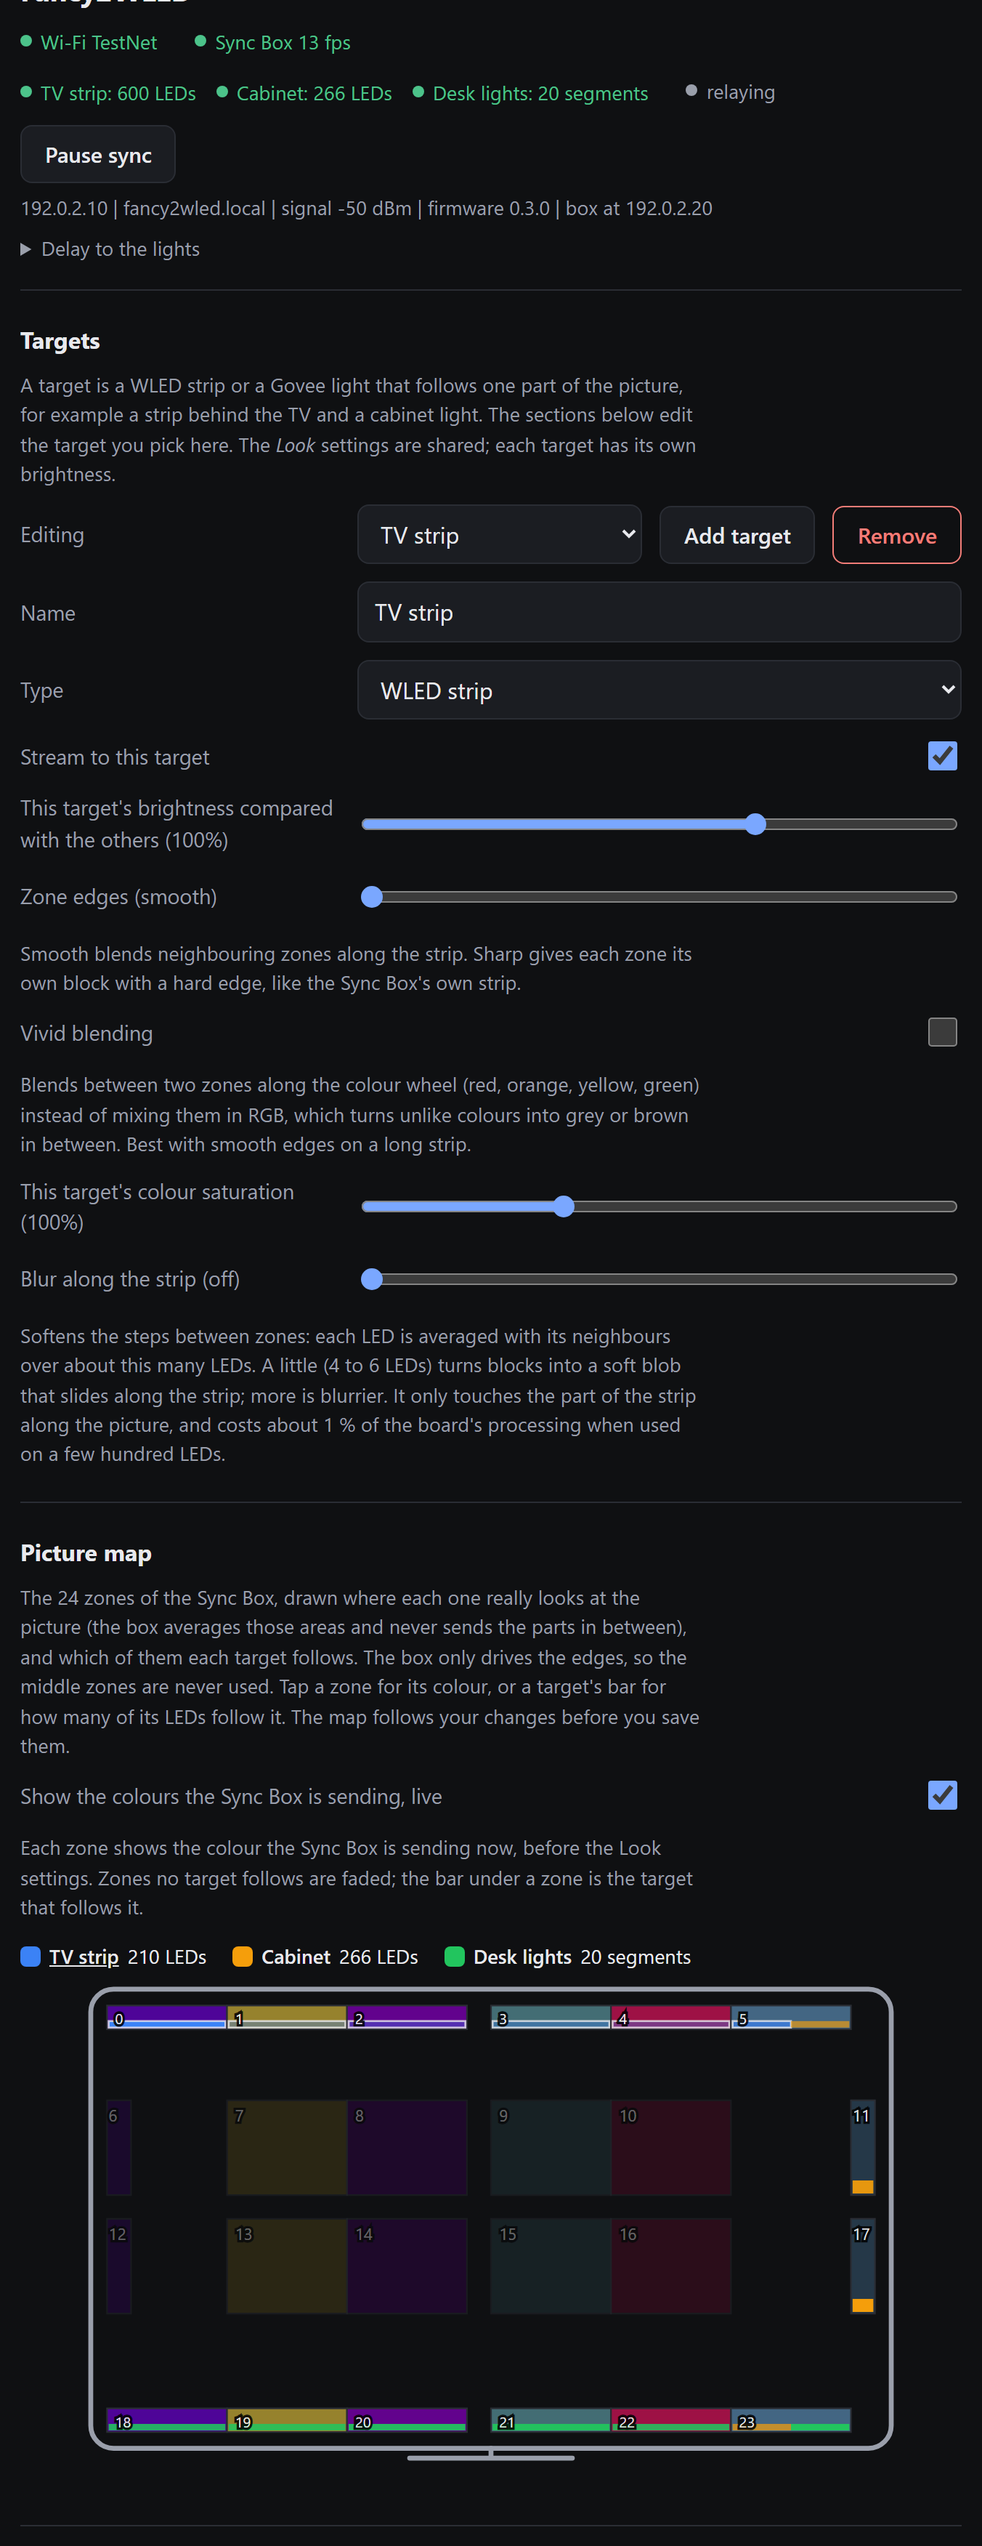
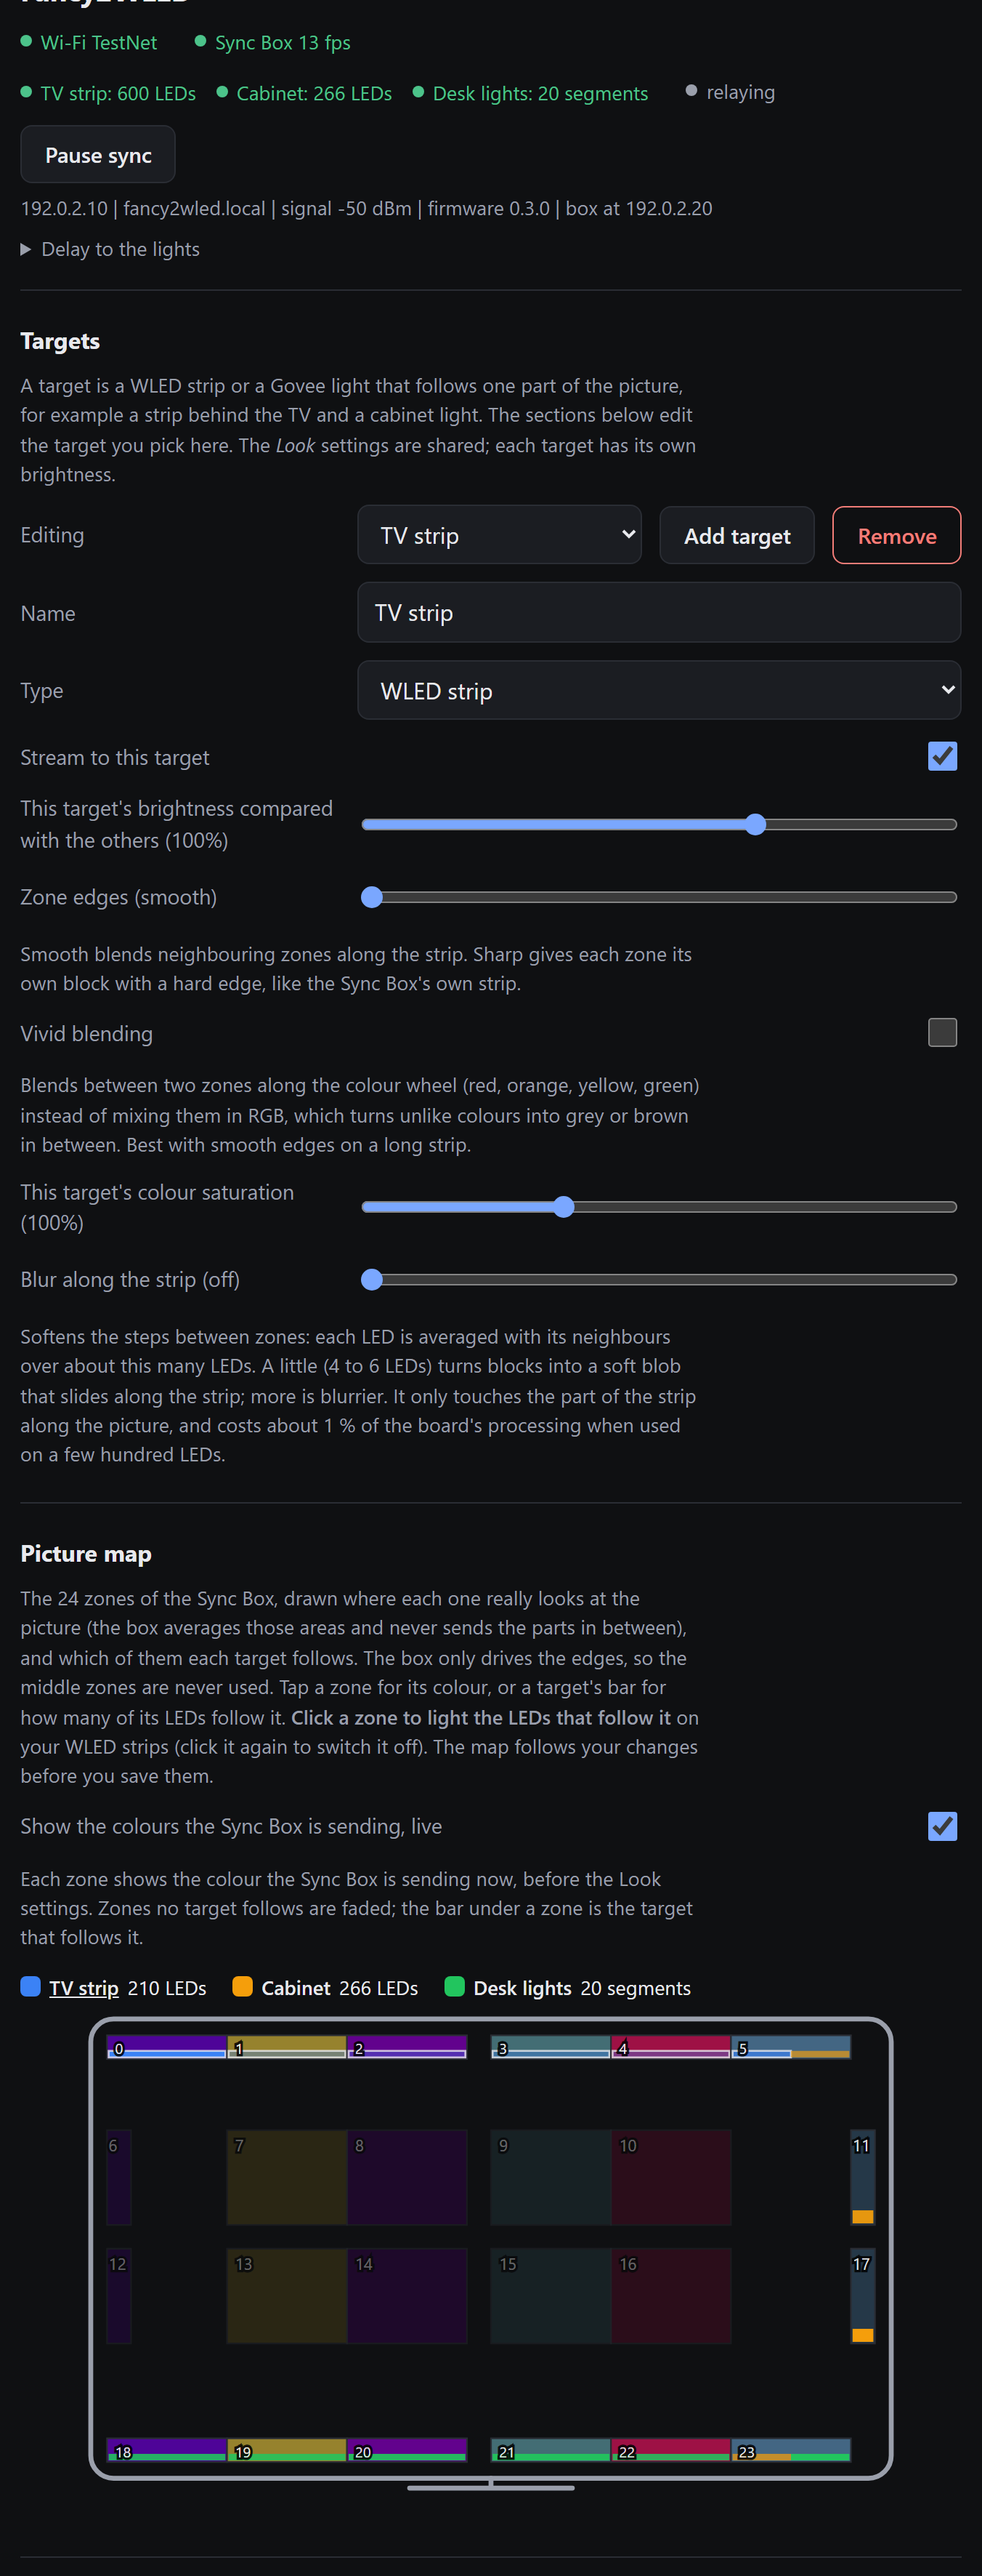
Picture map: click a zone to light the LEDs that follow it
Clicking a zone on the setup page's picture map asks the board (POST
/api/zonemark) to light, in white for 8 seconds, the LEDs that follow that zone
on every enabled WLED (the rest of those runs dark, like the other markers);
clicking it again switches it off. An LED follows the zone it takes most of its
colour from (zoneRuns in core.cpp, tested on a PC), so the counts match the
map's. A note under the map says where the zone is lit and the zone is outlined.
Govee lights are left alone.

diff --git a/web/index.html b/web/index.html
@@ -63,9 +63,10 @@ input[type=range].wide{width:100%}
 
 <div class="card" id="mapCard">
   <h2>Picture map</h2>
-  <p class="small mut">The 24 zones of the Sync Box, drawn where each one really looks at the picture (the box averages those areas and never sends the parts in between), and which of them each target follows. The box only drives the edges, so the middle zones are never used. Tap a zone for its colour, or a target's bar for how many of its LEDs follow it. The map follows your changes before you save them.</p>
+  <p class="small mut">The 24 zones of the Sync Box, drawn where each one really looks at the picture (the box averages those areas and never sends the parts in between), and which of them each target follows. The box only drives the edges, so the middle zones are never used. Tap a zone for its colour, or a target's bar for how many of its LEDs follow it. <b>Click a zone to light the LEDs that follow it</b> on your WLED strips (click it again to switch it off). The map follows your changes before you save them.</p>
   <div class="row"><label for="mapLiveOn">Show the colours the Sync Box is sending, live</label><input id="mapLiveOn" type="checkbox" style="flex:0 0 auto" checked></div>
   <p class="small mut" id="mapLiveNote"></p>
+  <p class="small" id="mapMarkNote" aria-live="polite"></p>
   <div id="mapLegend" class="legend small"></div>
   <svg id="mapSvg" viewBox="0 0 500 312" role="img" aria-label="Which zones of the picture each target follows" style="width:100%;max-width:560px;display:block;margin:8px auto"></svg>
 </div>
@@ -292,6 +293,23 @@ input[type=range].wide{width:100%}
     if((r===1||r===2)&&c===5)return[1860,y0,60,h];
     return[ZX[c][0],y0,ZX[c][1]-ZX[c][0],h];
   }
+  /* Click a zone: the board lights the LEDs that follow it (white, on every WLED) for a while; click it again to switch it off. */
+  var ZONE_MARK_S=8,markedZone=-1,markedUntil=0,markedTimer=null;
+  async function zoneClick(z){
+    var note=$('mapMarkNote'),off=(z===markedZone&&Date.now()<markedUntil);
+    clearTimeout(markedTimer);
+    try{
+      var r=await j('/api/zonemark',{zone:z,seconds:off?0:ZONE_MARK_S});
+      if(off){markedZone=-1;markedUntil=0;note.textContent='';}
+      else{
+        markedZone=z;markedUntil=Date.now()+ZONE_MARK_S*1000;
+        var names=[];(r.targets||[]).forEach(function(n,i){if(n>0)names.push(tview(i).name+' ('+n+' LEDs)');});
+        note.textContent=r.leds>0?('Zone '+z+' is lit on: '+names.join(', ')+'. Click it again to switch it off.'):('No LED on a WLED follows zone '+z+'.');
+        markedTimer=setTimeout(function(){markedZone=-1;note.textContent='';drawMap();},ZONE_MARK_S*1000+300);
+      }
+    }catch(e){note.textContent='Could not reach the board.';}
+    drawMap();
+  }
   function drawMap(){
     var svg=$('mapSvg'),n=(cfg&&cfg.targets)?cfg.targets.length:1,leg=$('mapLegend');
     while(svg.firstChild)svg.removeChild(svg.firstChild);leg.innerHTML='';
@@ -305,7 +323,9 @@ input[type=range].wide{width:100%}
       var users=[];for(i=0;i<n;i++)if((usage[i]||[])[z]>0.05)users.push(i);
       // live view: a zone no target follows is faded, the targets are a bar under the colour; otherwise the old look, a tinted block per target
       var g=svgEl('g',{'data-zone':z,opacity:liveOn?(users.length?1:0.4):(inner?0.4:1)},svg);
-      var cell=svgEl('rect',{x:x,y:y,width:cw,height:ch,fill:'var(--bg)',stroke:'var(--line)'},g);
+      var lit=(z===markedZone&&Date.now()<markedUntil);
+      g.style.cursor='pointer';g.addEventListener('click',function(){zoneClick(parseInt(this.getAttribute('data-zone'),10));});
+      var cell=svgEl('rect',{x:x,y:y,width:cw,height:ch,fill:'var(--bg)',stroke:lit?'var(--fg)':'var(--line)','stroke-width':lit?2.5:1},g);
       var cellTitle=svgEl('title',{},cell);
       users.forEach(function(ti,k){
         var v=usage[ti][z],a=(0.2+0.8*v/mx[ti])*(tview(ti).enabled?1:0.35),sh=ch/users.length,sw2=(cw-2)/users.length,bar=liveOn;

diff --git a/test/test_pages.js b/test/test_pages.js
@@ -428,6 +428,15 @@ async function cdp(wsUrl) {
       const zonesOf = t => p.ev("JSON.stringify([...new Set(Array.from(document.querySelectorAll('#mapSvg rect[data-t=\"" + t + "\"]')).map(r => +r.getAttribute('data-z')))].sort((a,b)=>a-b))");
       const alphaOf = (t, z) => p.ev("+document.querySelector('#mapSvg rect[data-t=\"" + t + "\"][data-z=\"" + z + "\"]').getAttribute('fill-opacity')");
       check('map: all 24 zones are drawn', (await p.ev("document.querySelectorAll('#mapSvg g[data-zone]').length")) === 24);
+      // clicking a zone lights its LEDs on the strips
+      const clickZone = z => p.ev("document.querySelector('#mapSvg g[data-zone=\"" + z + "\"]').dispatchEvent(new MouseEvent('click',{bubbles:true})); 1");
+      dev.state.zoneMark = null;
+      await clickZone(3); await sleep(400);
+      check('map: clicking a zone asks the board to light it', dev.state.zoneMark && dev.state.zoneMark.zone === 3 && dev.state.zoneMark.seconds > 0, JSON.stringify(dev.state.zoneMark));
+      check('map: a note says which strips it is lit on', /Zone 3 is lit on: Target 1 \(15 LEDs\)/.test(await p.ev("document.getElementById('mapMarkNote').textContent")), await p.ev("document.getElementById('mapMarkNote').textContent"));
+      check('map: the clicked zone is outlined', (await p.ev("document.querySelector('#mapSvg g[data-zone=\"3\"] rect').getAttribute('stroke-width')")) === '2.5' && (await p.ev("document.querySelector('#mapSvg g[data-zone=\"4\"] rect').getAttribute('stroke-width')")) === '1');
+      await clickZone(3); await sleep(400);
+      check('map: clicking it again switches it off', dev.state.zoneMark.zone === 3 && dev.state.zoneMark.seconds === 0 && (await p.ev("document.getElementById('mapMarkNote').textContent")) === '');
       // where each zone sits is where the box really looks, not an even grid
       const box = z => p.ev("(function(){var r=document.querySelector('#mapSvg g[data-zone=\"" + z + "\"] rect'); return JSON.stringify([+r.getAttribute('x'), +r.getAttribute('y'), +r.getAttribute('width'), +r.getAttribute('height')].map(function(v){return Math.round(v*10)/10;}));})()");
       const nominal = JSON.stringify([14, 14, 78.7, 65.5]);

diff --git a/test/mock_device.js b/test/mock_device.js
@@ -220,6 +220,7 @@ function createDevice(opts) {
           return json(res, 200, { ok: true });
         }
         if (p === '/api/test') { state.test = d; return json(res, 200, { ok: true }); }
+        if (p === '/api/zonemark') { state.zoneMark = d; state.zoneMarks = (state.zoneMarks || 0) + 1; return json(res, 200, { ok: true, leds: d.seconds > 0 ? 15 : 0, targets: d.seconds > 0 ? [15, 0, 0, 0] : [0, 0, 0, 0] }); }
         if (p === '/api/mark') { state.mark = d; state.marks = (state.marks || 0) + 1; return json(res, 200, { ok: true }); }
         if (p === '/api/cal/begin') {
           const tg = state.cfg.targets[d.target || 0];

diff --git a/test/test_core.cpp b/test/test_core.cpp
@@ -405,6 +405,36 @@ int main(int argc, char** argv) {
     // the box's zones are not laid out symmetrically (the two middle rows sit a little above the centre of the picture), so the two ends differ a little
     CHECK(fabsf(ur[5] - ur[23]) < 8.f && ur[11] > 40.f && ur[17] > 40.f, "a right-hand strip spreads over its column (zones 5, 11, 17, 23: %.1f %.1f %.1f %.1f)", ur[5], ur[11], ur[17], ur[23]);
   }
+  { // clicking a zone on the picture map lights the LEDs that follow it
+    Entry top[210];
+    tableLinear(top, 210, false, 82, 172, 0);
+    int total = 0, zonesWithRuns = 0;
+    bool contiguous = true, none = true;
+    for (int z = 0; z < kZones; z++) {
+      int runs[8][2];
+      const int n = zoneRuns(top, 210, z, runs, 8);
+      if (n > 0) zonesWithRuns++;
+      if (z > 5 && n != 0) none = false;                                  // a ceiling strip never follows a zone of the lower rows
+      int prevEnd = -1;
+      for (int k = 0; k < n; k++) {
+        total += runs[k][1];
+        if (runs[k][0] <= prevEnd) contiguous = false;                  // runs are in order and do not touch
+        prevEnd = runs[k][0] + runs[k][1];
+      }
+    }
+    CHECK(total == 210, "every LED of the strip belongs to exactly one zone (%d of 210)", total);
+    CHECK(zonesWithRuns == 6 && none && contiguous, "a ceiling strip is covered by the six top zones, each a separate stretch (%d zones)", zonesWithRuns);
+    int r0[8][2], r3[8][2];
+    const int n0 = zoneRuns(top, 210, 0, r0, 8), n3 = zoneRuns(top, 210, 3, r3, 8);
+    CHECK(n0 == 1 && r0[0][0] == 0 && r0[0][1] > 60, "zone 0 holds the left end of the strip (run of %d from LED %d)", r0[0][1], r0[0][0]);
+    CHECK(n3 == 1 && r3[0][0] > r0[0][1] && r3[0][1] >= 10 && r3[0][1] <= 20, "zone 3 is a stretch of about 15 LEDs in the middle (%d from %d)", r3[0][1], r3[0][0]);
+    int few[2][2];
+    CHECK(zoneRuns(top, 210, 0, few, 0) == 0, "no room for runs: none returned");
+    Entry loop[142];
+    CHECK(tableLoop(loop, 142, 0, false, nullptr, 0, 16, 9), "a loop of 142 LEDs builds");
+    int lr[8][2];
+    CHECK(zoneRuns(loop, 142, 5, lr, 8) <= 2 && zoneRuns(loop, 142, 5, lr, 8) >= 1, "the top-right corner zone is one stretch or two (round the corner)");
+  }
   { // firmware updates: what is accepted as an image, the marker scan and the password rules
     uint8_t img[200] = {};
     img[0] = 0xE9; img[12] = 9; img[13] = 0;                              // an ESP32-S3 image ...

diff --git a/src/webserver.cpp b/src/webserver.cpp
@@ -347,6 +347,24 @@ static esp_err_t h_mark(httpd_req_t* req) {
   return sendOk(req);
 }
 
+// Click on a zone of the picture map: light the LEDs that follow it on every WLED (seconds 0 = off).
+static esp_err_t h_zonemark(httpd_req_t* req) {
+  NEED_JSON(doc);
+  const int zone = doc["zone"] | -1;
+  if (zone < 0 || zone >= fwb::kZones) return sendError(req, "400 Bad Request", "zone must be 0 to 23");
+  int secs = doc["seconds"] | 8;
+  if (secs < 0) secs = 0;
+  if (secs > 60) secs = 60;
+  int per[kMaxTargets];
+  const int total = zoneMark(zone, secs, per);
+  JsonDocument d;
+  d["ok"] = true;
+  d["leds"] = total;
+  JsonArray a = d["targets"].to<JsonArray>();
+  for (int i = 0; i < kMaxTargets; i++) a.add(per[i]);
+  return sendDoc(req, d);
+}
+
 static esp_err_t h_zones(httpd_req_t* req) {
   uint8_t z[fwb::kZones][3];
   uint32_t age;
@@ -574,6 +592,7 @@ static const Route kRoutes[] = {
     {"/api/test", HTTP_POST, h_test},
     {"/api/zones", HTTP_GET, h_zones},
     {"/api/mark", HTTP_POST, h_mark},
+    {"/api/zonemark", HTTP_POST, h_zonemark},
 #if FWB_PHONE_CAL
     {"/api/screen", HTTP_GET, h_screen_get},
     {"/api/cal/screen", HTTP_POST, h_cal_screen},

diff --git a/src/relay.cpp b/src/relay.cpp
@@ -1295,6 +1295,27 @@ void testPattern(int target, int seconds) {
   }
 }
 
+int zoneMark(int zone, int seconds, int perTarget[kMaxTargets]) {
+  for (int i = 0; i < kMaxTargets; i++) perTarget[i] = 0;
+  if (zone < 0 || zone >= kZones) return 0;
+  Lock l;
+  int total = 0;
+  for (int i = 0; i < gSet.nTargets && i < kMaxTargets; i++) {
+    const Target& t = gSet.t[i];
+    if (t.kind != 0 || !t.enabled || !gTable[i] || gTableN[i] != t.wCount) continue;
+    int runs[8][2];
+    const int n = seconds > 0 ? zoneRuns(gTable[i], gTableN[i], zone, runs, 8) : 0;
+    MarkBlock bl[8];
+    for (int k = 0; k < n; k++) {
+      bl[k] = MarkBlock{t.wStart + runs[k][0], runs[k][1], 255, 255, 255};
+      perTarget[i] += runs[k][1];
+    }
+    total += perTarget[i];
+    markShow(i, bl, n, seconds);                      // no run (or 0 seconds) clears what this target was showing
+  }
+  return total;
+}
+
 void markShow(int target, const MarkBlock* blocks, int n, int seconds) {
   Lock l;
   if (target < 0 || target >= gSet.nTargets) return;

diff --git a/include/core.h b/include/core.h
@@ -163,6 +163,10 @@ void sharpenTable(Entry* table, int count, int percent);
 // the same brightness. Results are clamped to 0..255.
 void saturateColours(float* rgb, int n, float sat);
 
+// The runs of consecutive LEDs that follow `zone` more than any other zone (each LED's table entry blends zone a and zone b; it belongs to a when f < 128, else to b).
+// out[k] = {first LED, number of LEDs}; returns the number of runs (at most maxRuns). The setup page lights these when a zone is clicked on the picture map.
+int zoneRuns(const Entry* table, int count, int zone, int out[][2], int maxRuns);
+
 // How many LEDs follow each picture zone: an LED adds (1 - f/255) to zone a and f/255 to zone b of its table entry, so the 24 numbers add
 // up to `count`. The setup page draws this as the "picture map" (which part of the screen each target pulls from). LEDs past the ends of the
 // TV hold the corner zone, so the corners usually come out highest.

diff --git a/include/app.h b/include/app.h
@@ -206,6 +206,9 @@ void testPattern(int target, int seconds);
 // the run dark, so the setup page can show where the run / the TV part starts and ends. Ignored during calibration.
 struct MarkBlock { int start, count; uint8_t r, g, b; };
 void markShow(int target, const MarkBlock* blocks, int n, int seconds);
+// Lights, in white on every enabled WLED target, the LEDs that follow `zone` of the picture (the rest of those runs dark) for `seconds`; 0 clears.
+// Returns the number of LEDs lit. A Govee light is left alone.
+int zoneMark(int zone, int seconds, int perTarget[kMaxTargets]);
 
 // ---------------------------------------------------------------- Home Assistant (MQTT)
 struct MqttStatus { bool enabled = false, connected = false; String error, base; };

diff --git a/src/core.cpp b/src/core.cpp
@@ -635,6 +635,24 @@ void darkOutside(float* rgb, int n, int first, int last) {
     if (i < first || i > last) rgb[i * 3] = rgb[i * 3 + 1] = rgb[i * 3 + 2] = 0.f;
 }
 
+int zoneRuns(const Entry* t, int count, int zone, int out[][2], int maxRuns) {
+  int runs = 0;
+  bool in = false;
+  for (int i = 0; i < count; i++) {
+    const bool mine = (t[i].f < 128 ? t[i].a : t[i].b) == zone;
+    if (mine && in) {
+      out[runs - 1][1]++;
+    } else if (mine) {
+      if (runs >= maxRuns) break;
+      out[runs][0] = i;
+      out[runs][1] = 1;
+      runs++;
+    }
+    in = mine;
+  }
+  return runs;
+}
+
 void zoneUsage(const Entry* t, int count, float out[kZones]) {
   for (int z = 0; z < kZones; z++) out[z] = 0.f;
   for (int i = 0; i < count; i++) {
